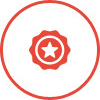
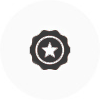
change some elements on hover UI

Changed region(s): [[0.0, 0.0, 1.0, 1.0], [0.27, 0.3, 0.72, 0.72]]

diff --git a/css/style.css b/css/style.css
@@ -146,7 +146,7 @@ div.menu ul li a.active .small-bar{
 	border-radius: 5px;
 }
 
-.slide-info .button-wrapper input{
+/*.slide-info .button-wrapper input{
 	width: 100%;
 	height: 54px;
 	border: none;
@@ -156,6 +156,23 @@ div.menu ul li a.active .small-bar{
 	font-size: 14px;
 	color: white;
 	cursor: pointer;
+}*/
+
+.slide-info .button-wrapper a{
+	text-decoration: none;
+	display: block;
+	/*width: 100%;*/
+	height: 54px;
+	line-height: 54px;
+	text-align: center;
+	/*border: none;
+	background: none;*/
+	font-family: 'raleway';
+	font-weight: bold;
+	font-size: 14px;
+	color: white;
+
+	/*cursor: pointer;*/
 }
 
 
@@ -206,6 +223,26 @@ div.menu ul li a.active .small-bar{
 
 .service:hover{
 	cursor: pointer;
+}
+
+.service:hover .clean-design-logo{
+	background: url('../images/clean_design_active.png') no-repeat;
+	background-position: 50% 50%;
+}
+
+.service:hover .branding-logo{
+	background: url('../images/branding_active.png') no-repeat;
+	background-position: 50% 50%;
+}
+
+.service:hover .responsive-logo{
+	background: url('../images/responsive_active.png') no-repeat;
+	background-position: 50% 50%;
+}
+
+.service:hover .development-logo{
+	background: url('../images/development_active.png') no-repeat;
+	background-position: 50% 50%;
 }
 
 .service:hover .service-title{
@@ -427,59 +464,33 @@ div.menu ul li a.active .small-bar{
 	background: #363636;
 }
 
-.button-wrapper .button input:hover{
+/*.button-wrapper .button input:hover{
 	cursor: pointer;
-	/*height: 54px;
-	background: #363636;
-	border:none;*/
+}
+*/
+.button-wrapper .button a{
+	display: block;
+	text-decoration: none;
+	font-family: 'raleway';
+	font-weight: bold;
+	font-size: 14px;
+	color: white;
+	text-align: center;
+	line-height: 50px;
+
 }
 
 .button-wrapper .button.buy-this{
-	float: left;/*
-	background: #363636;*/
+	float: left;
 }
 
 .button-wrapper .button.screenshots{
 	float: right;
-	/*height: 50px;
-	border: 2px solid white;
-	background: none;*/
 }
-
-
-.button-wrapper .button input{
-	width: 100%;
-	height: 54px;
-	background: none;
-	border: none;
-	font-family: 'raleway';
-	font-weight: bold;
-	font-size: 14px;
-	color: white;
-}
-
-/*.button-wrapper .button input{
-	width: 100%;
-	height: 54px;
-	background: none;
-	border: none;
-	font-family: 'raleway';
-	font-weight: bold;
-	font-size: 14px;
-	color: white;
-}
-*/
-/*.button-wrapper .screenshots input{
-	height: 50px;
-}*/
-
-
 
 .footer-logo{
 	width: 100%;
-	/*height: 41px;*/
 	padding-bottom: 28px;
-	/*background: green;*/
 	vertical-align: bottom;
 }
 

diff --git a/index.html b/index.html
@@ -94,7 +94,8 @@
 							</div>
 							<div class="slide-desc">Claritas processus dynamicus, qui sequitur mutationem consuetudium</div>
 							<div class="button-wrapper">
-								<input type="button" value="BUY THIS NOW">
+								<!-- <input type="button" value="BUY THIS NOW"> -->
+								<a href="#">BUY THIS NOW</a>
 							</div>
 						</div>
 					</div>
@@ -281,8 +282,12 @@
                     <div class="purchase-top">Clean and Unique PSD For Your Projects</div>
                     <div class="purchase-middle">Don't Forget to rate the Template. Thanks so much!</div>
                     <div class='button-wrapper clearfix'>
-                        <div class="button buy-this"><input type="button" value="BUY THIS NOW"></div>
-                        <div class="button screenshots"><input type="button" value="SCREENSHOTS"></div>
+                        <div class="button buy-this">
+                        	<a href="#">BUY THIS NOW</a>
+                        </div>
+                        <div class="button screenshots">
+                        	<a href="#">SCREENSHOTS</a>
+                        </div>
                     </div>
                     
                 </div>

diff --git a/css/media-query-1300.css b/css/media-query-1300.css
@@ -31,9 +31,10 @@
 		height: 30px;
 	}
 
-	.slide-info .button-wrapper input{
-		height: 30px;
+	.slide-info .button-wrapper a{
+		line-height: 30px;
 		font-size: 10px;
+
 	}
 
 	.slider-wrapper .arrow{
@@ -96,6 +97,18 @@
 		width: 50%;
 		/*float: none;*/
 	}
+
+	/*.button-wrapper .button a{
+		display: block;
+		text-decoration: none;
+		font-family: 'raleway';
+		font-weight: bold;
+		font-size: 14px;
+		color: white;
+		text-align: center;
+		line-height: 50px;
+
+	}*/
 
 /*
 	.button-wrapper .button{

diff --git a/css/media-query-1600.css b/css/media-query-1600.css
@@ -41,8 +41,9 @@
 		height: 45px;
 	}
 
-	.slide-info .button-wrapper input{
-		height: 45px;
+
+	.slide-info .button-wrapper a{
+		line-height: 45px;
 		font-size: 12px;
 	}
 

diff --git a/css/media-query-800.css b/css/media-query-800.css
@@ -31,8 +31,9 @@
 		height: 30px;
 	}
 
-	.slide-info .button-wrapper input{
-		height: 30px;
+
+	.slide-info .button-wrapper a{
+		line-height: 30px;
 		font-size: 10px;
 	}
 
